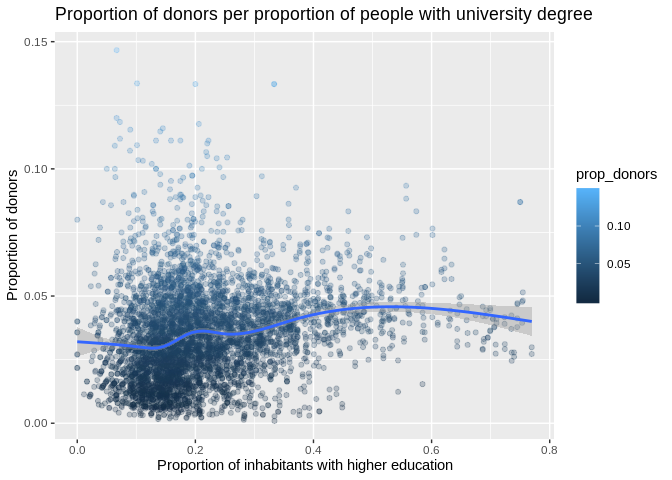
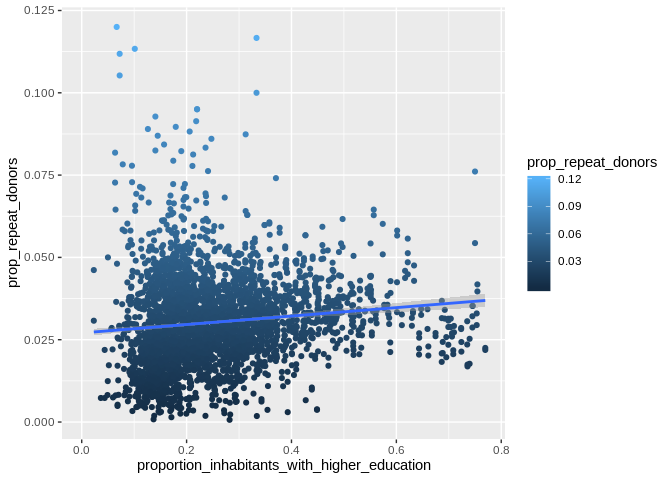
nothing to see here

diff --git a/src/visualisation.md b/src/visualisation.md
@@ -55,38 +55,26 @@ library(lubridate)
     ## 
     ##     date
 
-# Is there a relationship of income and proportion of donors in the population?
-
 filtering prop\_donors smaller than 1 and took common logarithm
 
 ``` r
 preprosessed_paavo %>% 
 filter(prop_donors<=1) %>% 
-ggplot(aes(x = averageincome, y= prop_donors)) +
+ggplot(aes(x = averageincome, y= prop_donors, color=prop_donors)) +
 geom_point(alpha = 0.25) +
+geom_smooth(method=lm) +
 scale_x_log10()  +
-facet_grid(Year~.) +
+#facet_grid(Year~.) +
 labs(x = "Average income",
          y = "Proportion of donors",
          title = "Proportion of donors per average income")
 ```
 
+    ## Warning: Removed 6 rows containing non-finite values (stat_smooth).
+
     ## Warning: Removed 6 rows containing missing values (geom_point).
 
 ![](visualisation_files/figure-gfm/unnamed-chunk-4-1.png)<!-- -->
-
-# basic plot for median.
-
-``` r
-preprosessed_paavo %>% 
-ggplot(aes(y= prop_donors, x= medianincome)) +
-geom_point() + 
-facet_grid(Year~.)
-```
-
-    ## Warning: Removed 1970 rows containing missing values (geom_point).
-
-![](visualisation_files/figure-gfm/unnamed-chunk-6-1.png)<!-- -->
 
 \#Logarithm and filtering.
 
@@ -105,47 +93,63 @@ facet_grid(Year ~.)
 
     ## Warning: Removed 6 rows containing missing values (geom_point).
 
-![](visualisation_files/figure-gfm/unnamed-chunk-7-1.png)<!-- -->
+![](visualisation_files/figure-gfm/unnamed-chunk-5-1.png)<!-- -->
+
+``` r
+preprosessed_paavo %>% 
+filter(prop_donors<=1) %>% 
+ggplot(aes(y = prop_donors, x = medianincome, color=prop_donors)) +
+geom_point(alpha = 0.25) +
+scale_x_log10() +
+geom_smooth (method=lm, se=FALSE) +
+labs(x = "Median income",
+         y = "Proportion of donors",
+         title = "Proportion of donors per median income of postal codes")
+```
+
+    ## Warning: Removed 6 rows containing non-finite values (stat_smooth).
+
+    ## Warning: Removed 6 rows containing missing values (geom_point).
+
+![](visualisation_files/figure-gfm/unnamed-chunk-6-1.png)<!-- -->
+
+``` r
+#facet_grid(Year ~.)
+```
 
 ``` r
 preprosessed_paavo %>%  
 filter(proportion_inhabitants_with_higher_education <= 1) %>% 
 ggplot(aes(x=proportion_inhabitants_with_higher_education, y=  prop_donors, color= prop_donors)) +
-geom_jitter(alpha= 0.25)+
-geom_smooth()+
+geom_jitter(alpha= 0.4)+
+geom_smooth(method=lm)+
 labs(x = "Proportion of inhabitants with higher education",
          y = "Proportion of donors",
-         title = "Proportion of donors per proportion of people with university degree")
+         title = "Proportion of donors per proportion of people with university degree") 
 ```
-
-    ## `geom_smooth()` using method = 'gam' and formula 'y ~ s(x, bs = "cs")'
 
     ## Warning: Removed 1164 rows containing non-finite values (stat_smooth).
 
     ## Warning: Removed 1164 rows containing missing values (geom_point).
 
-![](visualisation_files/figure-gfm/unnamed-chunk-8-1.png)<!-- -->
+![](visualisation_files/figure-gfm/unnamed-chunk-7-1.png)<!-- -->
 
 ``` r
-#acet_grid (Year~.)
+#facet_grid (Year~.)
 ```
-
-\`
 
 Is there a relationship between proportion of people with higher
 education and proportion of donors in the population?
 
 ``` r
 preprosessed_paavo %>% 
-ggplot(aes(x=proportion_inhabitants_with_higher_education, y= prop_donors))+
+ggplot(aes(x =  proportion_inhabitants_with_higher_education, y = prop_repeat_donors, col= prop_repeat_donors))+
 geom_point() +
-facet_grid(Year~.)
+geom_smooth (method=lm)
 ```
 
-    ## Warning: Removed 1970 rows containing missing values (geom_point).
+    ## Warning: Removed 4115 rows containing non-finite values (stat_smooth).
 
-![](visualisation_files/figure-gfm/unnamed-chunk-9-1.png)<!-- -->
+    ## Warning: Removed 4115 rows containing missing values (geom_point).
 
-b,Same plot separately for first time donors and others
-
-,
+![](visualisation_files/figure-gfm/unnamed-chunk-8-1.png)<!-- -->
